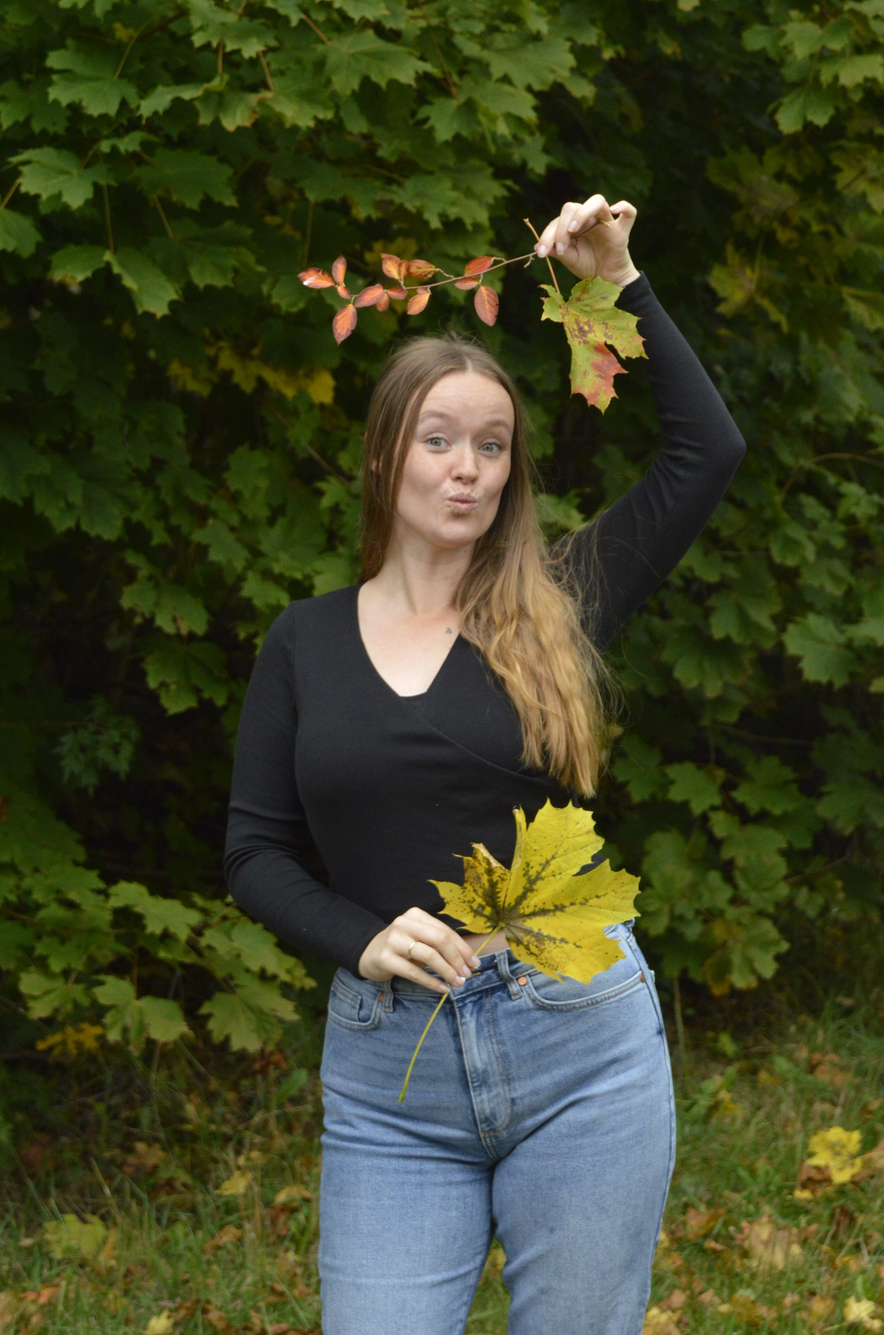
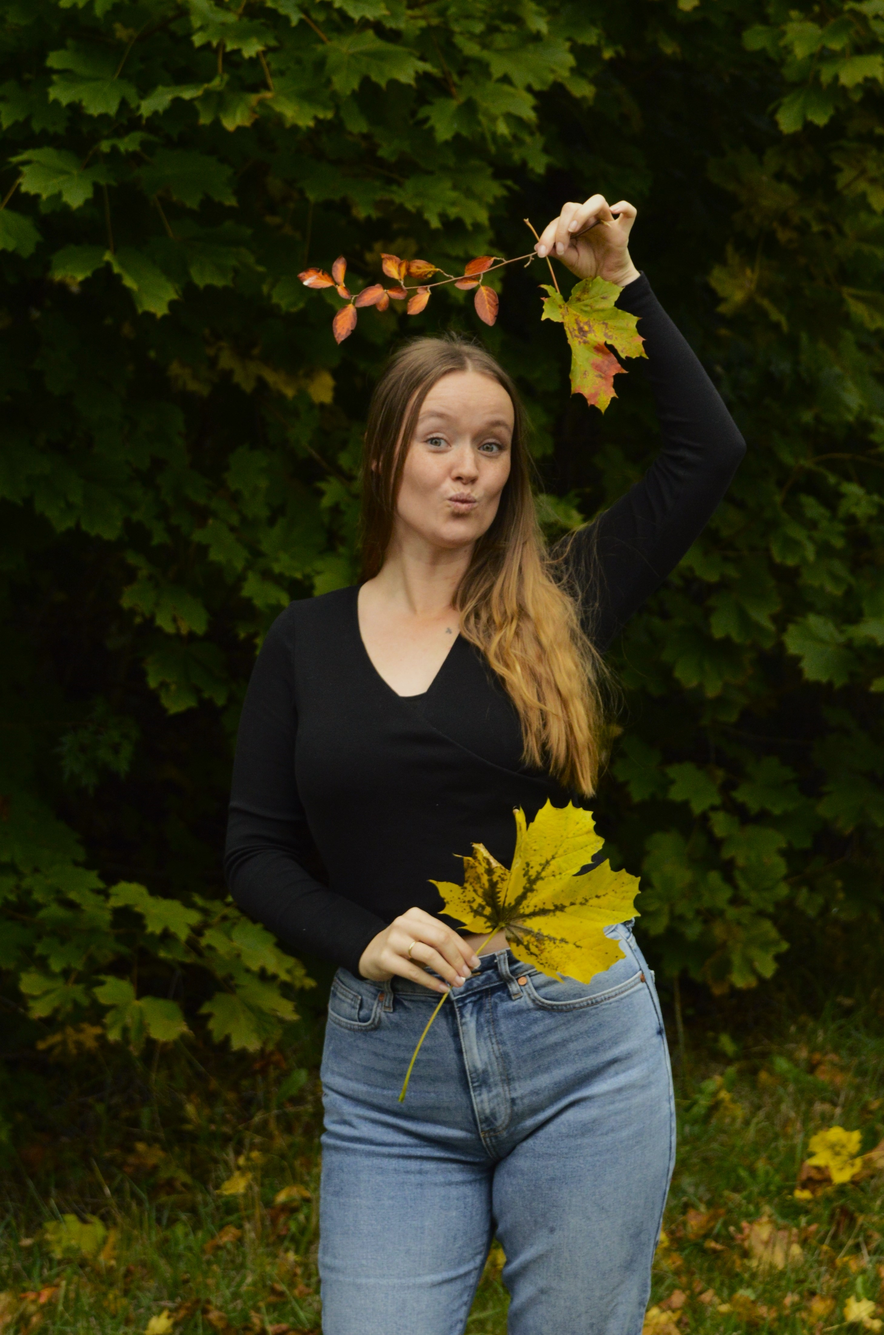
nye bilder

diff --git a/html/kort.html b/html/kort.html
@@ -39,7 +39,7 @@
             <div class="row">
               <div class="column">
                 <div class="card">
-                  <img src="../img/katarina.jpg" alt="Avatar" style="width:100%" class="img-skygge">
+                  <img src="../img/katarina-flavor.JPG" alt="Avatar" style="width:100%" class="img-skygge">
                   <div class="container">
                     <h4 class="card-navn"><b>Katarina Kirkhus</b></h4>
                     <p class="card-tittel">Gruppeleder &<br>fullstack-utvikler</p>
@@ -57,7 +57,7 @@
 
               <div class="column">
                 <div class="card">
-                  <img src="../img/hannah.jpg" alt="Avatar" style="width:100%" class="img-skygge">
+                  <img src="../img/hannah-flavor.JPG" alt="Avatar" style="width:100%" class="img-skygge">
                   <div class="container">
                     <h4 class="card-navn"><b>Hannah Klavenes</b></h4>
                     <p class="card-tittel">Scrum Master &<br>sikkerhetsansvarlig</p>
@@ -75,7 +75,7 @@
   
               <div class="column">
                 <div class="card">
-                  <img src="../img/mikael.jpg" alt="Avatar" style="width:100%" class="img-skygge">
+                  <img src="../img/mikael-flavor.JPG" alt="Avatar" style="width:100%" class="img-skygge">
                   <div class="container">
                     <h4 class="card-navn"><b>Mikael Nyborg</b></h4>
                     <p class="card-tittel">Teambuilder & <br>backend-ansvarlig</p>
